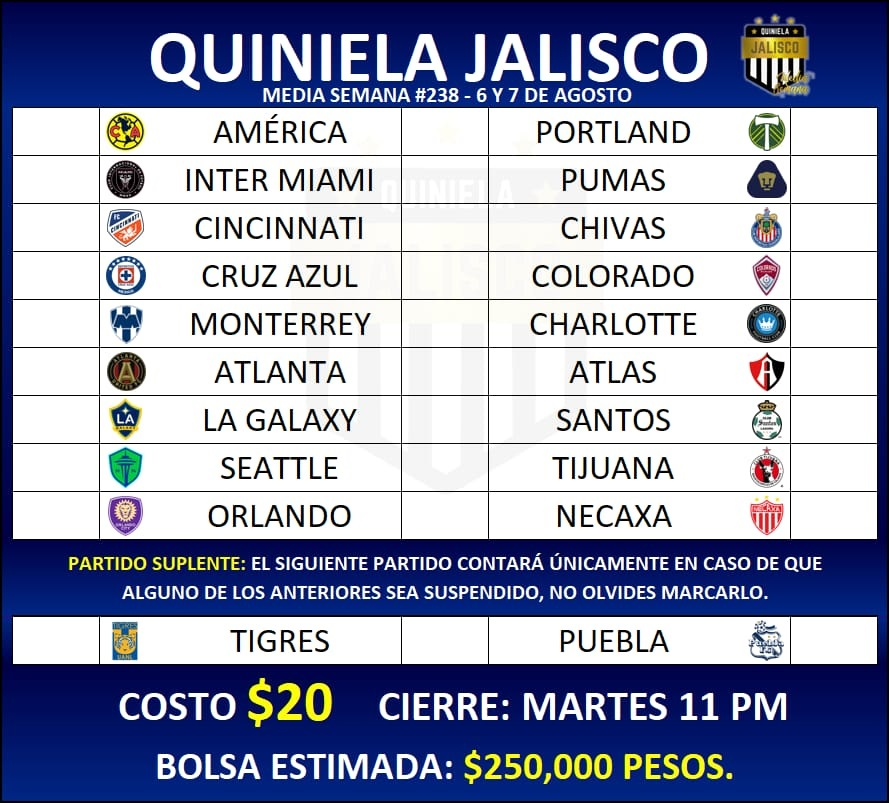
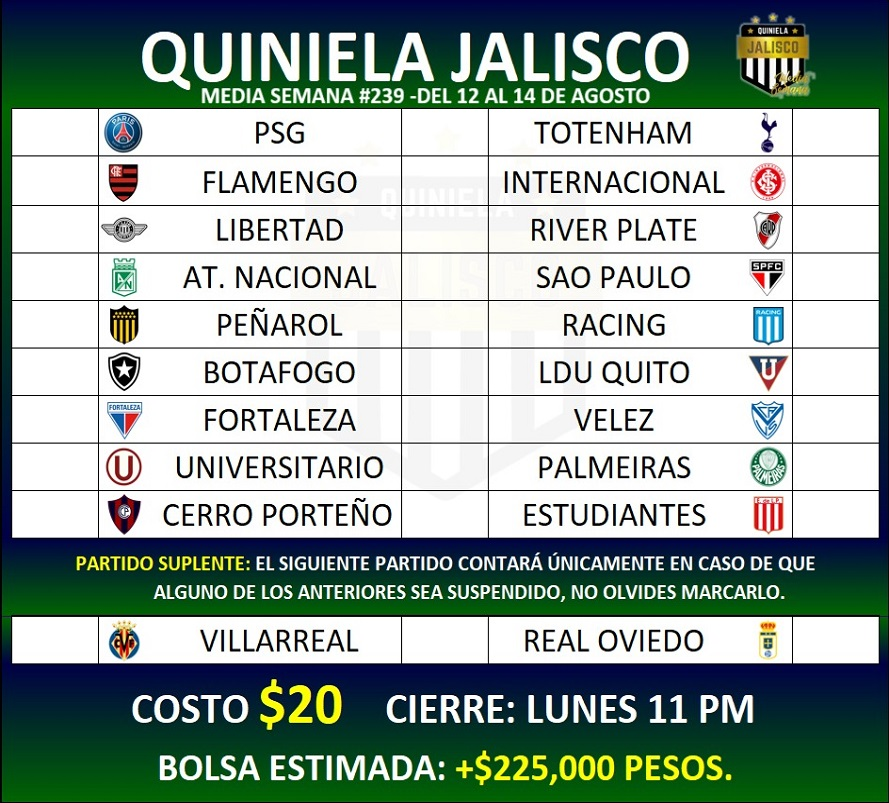
Media Semana #239

diff --git a/MediaSemana/stylesmSusp.css b/MediaSemana/stylesmSusp.css
@@ -94,8 +94,8 @@ body{
     margin-top: 9%;
     border: solid 1px black;
     border-radius: 0 0 14px 14px;
-    background: -webkit-linear-gradient(0.49turn, rgb(0,20,110) -7%, rgb(0 6 82) 80%);
-    background: linear-gradient(0.49turn, rgb(0,20,110) -7%, rgb(0 6 82) 80%);
+    background: -webkit-linear-gradient(0.49turn, rgb(0,50,35) -7%, rgb(0 6 82) 80%);
+    background: linear-gradient(0.49turn, rgb(0,50,35) -7%, rgb(0 6 82) 80%);
 }
 
 .text-lg{
@@ -294,7 +294,7 @@ h6{
 }
 
 #cantidad:before{
-    content:' $250,000 pesos';
+    content:' $225,000 pesos';
     color: yellow;
     white-space:pre;
 }
